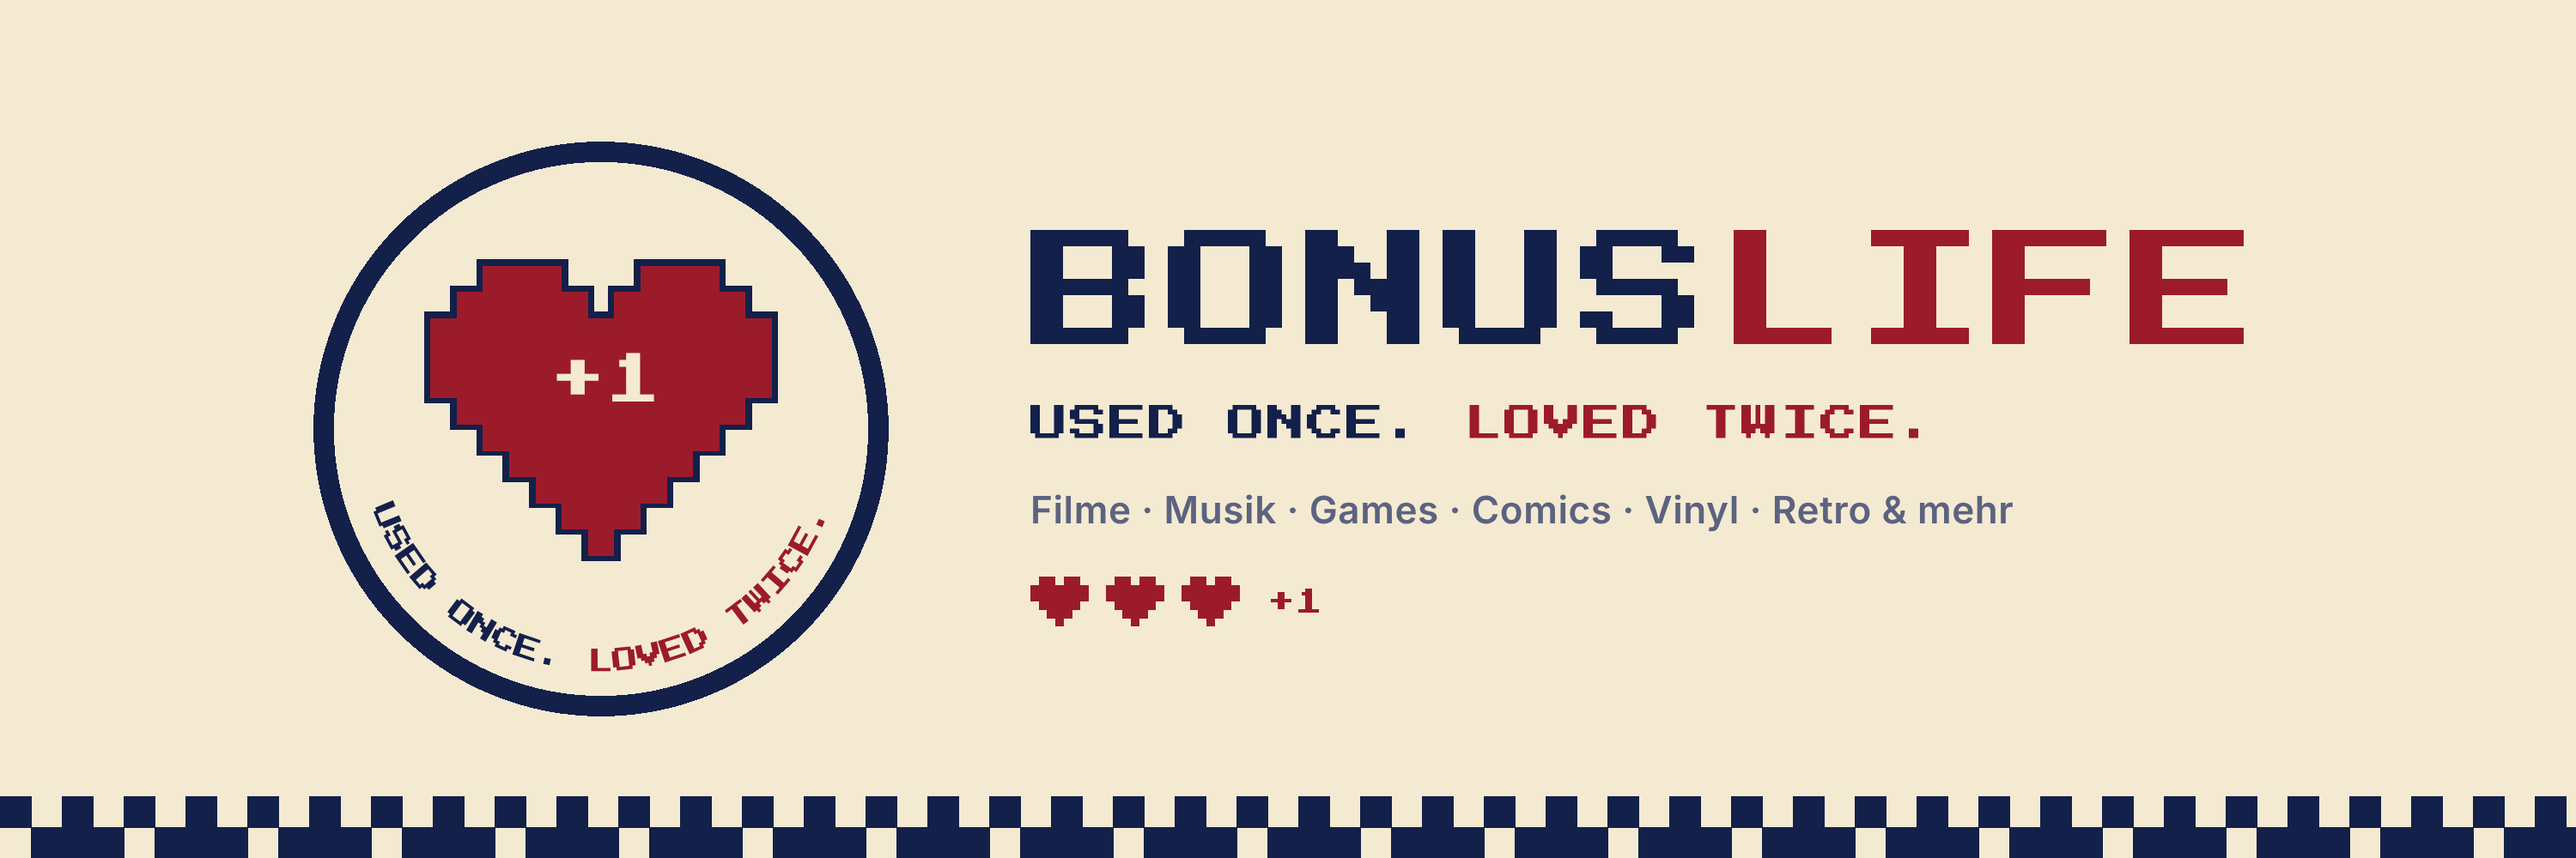
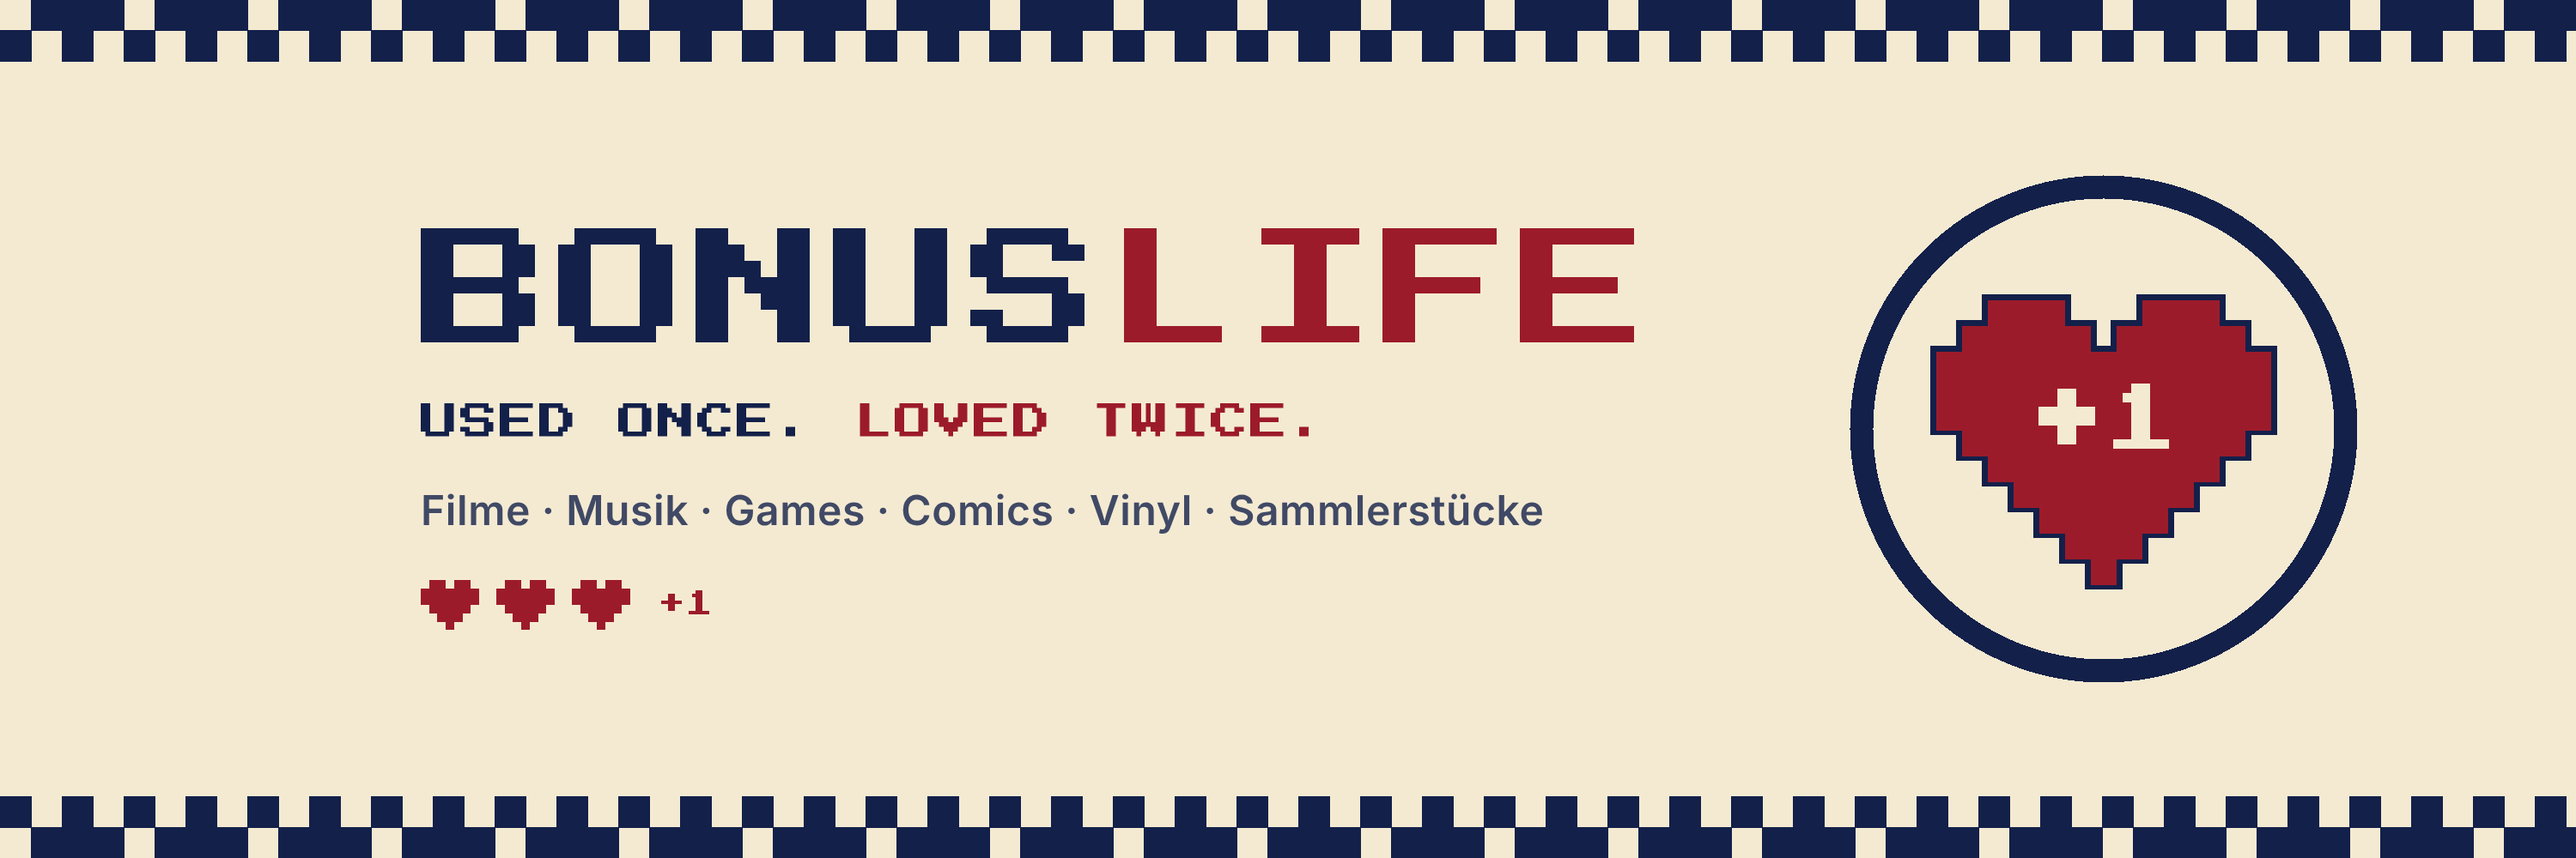
Apply second review round across cover and brand assets
Cover: new front grid (40 mm badge, 70 mm title box), pixel +1 in the
badge, range line and higher QR block on the back, cream-dark spine
write-on field. Brand: ring logo without arc text for the banner, the
wide header and stamps (colour and one-colour navy, PNG + SVG), a
unified range line with stronger contrast, checkerboard edges on the
wide header, and SVG exports of the badge.

Claude-Session: https://claude.ai/code/session_016MhpHubkyT9LhNT91FdgZQ

Changed region(s): [[0.124, 0.155, 0.93, 0.837], [0.0, 0.0, 1.0, 0.093], [0.403, 0.651, 0.527, 0.744]]

diff --git a/brand/assets.html b/brand/assets.html
@@ -21,13 +21,13 @@ svg{display:block}
 
 /* Banner 1280×288 (eBay), 2× gerendert */
 .banner{width:1280px;height:288px;background:var(--cream);display:flex;align-items:center;justify-content:center;gap:56px}
-.banner .badge{width:212px;height:212px}
+.banner .badge{width:190px;height:190px}
 .banner .mid{display:flex;flex-direction:column;align-items:center;gap:18px}
 .wm{font-family:"Press Start 2P",monospace;font-size:58px;letter-spacing:4px;color:var(--navy)}
 .wm span{color:var(--red)}
 .sl{font-family:"Press Start 2P",monospace;font-size:17px;letter-spacing:1px;color:var(--navy)}
 .sl span{color:var(--red)}
-.cat{font:600 17px Inter,sans-serif;color:#5b6380;letter-spacing:.3px}
+.cat{font:600 21px Inter,sans-serif;color:rgba(19,32,74,.8);letter-spacing:.3px}
 .lives{display:flex;gap:10px;align-items:center}
 .lives svg{width:34px}
 .lives b{font-family:"Press Start 2P",monospace;font-weight:400;font-size:16px;color:var(--red);margin-left:6px}
@@ -35,13 +35,15 @@ svg{display:block}
 .banner .dither.top{top:0;bottom:auto;transform:scaleY(-1)}
 
 /* Instagram/Facebook-Titelbild 1500×500 */
-.wide{width:1500px;height:500px;background:var(--cream);display:flex;align-items:center;justify-content:center;gap:80px}
-.wide .badge{width:340px;height:340px}
+.wide{width:1500px;height:500px;background:var(--cream);display:flex;align-items:center;justify-content:center;gap:110px;padding-left:120px}
+.wide .badge{width:300px;height:300px}
 .wide .wm{font-size:76px}
 .wide .sl{font-size:22px}
 .wide .cat{font-size:22px}
 .wide .mid{display:flex;flex-direction:column;align-items:flex-start;gap:26px}
 .wide .dither{position:absolute;left:0;right:0;bottom:0;height:36px}
+.wide .dither.top{top:0;bottom:auto;transform:scaleY(-1)}
+.wide .cat{font-size:24px}
 </style>
 </head>
 <body>
@@ -50,25 +52,28 @@ svg{display:block}
 <div><div class="cap">eBay-Banner 1280×288</div>
   <div class="asset banner" id="banner">
     <svg class="dither top" data-dither="1280"></svg>
-    <div class="badge" data-badge></div>
+    <div class="badge" data-ring></div>
     <div class="mid">
       <div class="wm">BONUS<span>LIFE</span></div>
       <div class="sl">USED ONCE. <span>LOVED TWICE.</span></div>
-      <div class="cat">Filme · Musik · Games · Comics · Vinyl · Retro &amp; mehr – aus zweiter Hand</div>
+      <div class="cat">Filme · Musik · Games · Comics · Vinyl · Sammlerstücke</div>
     </div>
     <div class="lives"><i data-heart></i><i data-heart></i><i data-heart></i><b>+1</b></div>
     <svg class="dither" data-dither="1280"></svg>
   </div>
 </div>
+<div><div class="cap">Logo ohne Bogentext (farbig) und Stempel (einfarbig Navy)</div>
+  <div style="display:flex;gap:24px"><div class="asset" id="ringColor" style="width:800px;height:800px" data-ring></div><div class="asset" id="ringStamp" style="width:800px;height:800px;background:#fff" data-stamp></div></div></div>
 <div><div class="cap">Breites Titelbild 1500×500 (z. B. Facebook, Linktree, Website)</div>
   <div class="asset wide" id="wide">
-    <div class="badge" data-badge></div>
+    <svg class="dither top" data-dither="1500"></svg>
     <div class="mid">
       <div class="wm">BONUS<span>LIFE</span></div>
       <div class="sl">USED ONCE. <span>LOVED TWICE.</span></div>
-      <div class="cat">Filme · Musik · Games · Comics · Vinyl · Retro &amp; mehr</div>
+      <div class="cat">Filme · Musik · Games · Comics · Vinyl · Sammlerstücke</div>
       <div class="lives"><i data-heart></i><i data-heart></i><i data-heart></i><b>+1</b></div>
     </div>
+    <div class="badge" data-ring></div>
     <svg class="dither" data-dither="1500"></svg>
   </div>
 </div>
@@ -106,9 +111,17 @@ function badgeSVG(){
   return `<svg viewBox="0 0 200 200" shape-rendering="crispEdges">
   <circle cx="100" cy="100" r="95" fill="${CREAM}" stroke="${NAVY}" stroke-width="7"/>
   <g fill="${NAVY}">${navy}</g><g fill="${RED}">${red}</g>
-  <text x="101.5" y="93" text-anchor="middle" font-family="'Press Start 2P',monospace" font-size="19" fill="${CREAM}">+1</text>
+  <g fill="${CREAM}">${plusOne(100,84.5,3.24)}</g>
   <defs><path id="arc" d="M 16 100 A 84 84 0 0 0 184 100"/></defs>
   <text font-family="'Press Start 2P',monospace" font-size="8.8" letter-spacing=".2" shape-rendering="auto"><textPath href="#arc" startOffset="50%" text-anchor="middle"><tspan fill="${NAVY}">USED ONCE. </tspan><tspan fill="${RED}">LOVED TWICE.</tspan></textPath></text></svg>`;
+}
+// Ring + Herz ohne Bogentext: für Stempel und kleine Größen. mono = einfarbig
+function ringLogo(mono){
+  const ink=mono||NAVY,heart=mono||RED,{navy,red}=heartRects(10,35,50,2.4);
+  return `<svg viewBox="0 0 200 200" xmlns="http://www.w3.org/2000/svg" shape-rendering="crispEdges">
+  <circle cx="100" cy="100" r="94" fill="${mono?'none':CREAM}" stroke="${ink}" stroke-width="9"/>
+  <g fill="${ink}">${navy}</g><g fill="${heart}">${red}</g>
+  <g fill="${mono?'#ffffff':CREAM}">${plusOne(100,95,3.6)}</g></svg>`;
 }
 function smallHeart(){const g=['.##.##.','#######','#######','.#####.','..###..','...#...'];let r='';
   g.forEach((row,y)=>[...row].forEach((c,x)=>{if(c==='#')r+=`<rect x="${x}" y="${y}" width="1.02" height="1.02"/>`}));
@@ -123,6 +136,8 @@ function render(){
   document.getElementById('profileCream').innerHTML=heartMark(NAVY);
   document.getElementById('profileNavy').innerHTML=heartMark(CREAM);
   document.querySelectorAll('[data-badge]').forEach(e=>e.innerHTML=badgeSVG());
+  document.querySelectorAll('[data-ring]').forEach(e=>e.innerHTML=ringLogo());
+  document.querySelectorAll('[data-stamp]').forEach(e=>e.innerHTML=ringLogo(NAVY));
   document.querySelectorAll('[data-heart]').forEach(e=>e.innerHTML=smallHeart());
   document.querySelectorAll('[data-dither]').forEach(e=>dither(e,+e.dataset.dither));
 }

diff --git a/cover/index.html b/cover/index.html
@@ -55,7 +55,7 @@ h1{font-size:18px;margin-bottom:4px}
 .spine .cap .px{width:min(5mm,calc(var(--spine)*.72))}
 .spine .name{flex:1;display:flex;align-items:center;justify-content:center}
 .spine .name b{writing-mode:vertical-rl;transform:rotate(180deg);font-family:"Press Start 2P",monospace;font-weight:400;font-size:min(2.8mm,calc(var(--spine)*.42));letter-spacing:.3mm;white-space:nowrap}
-.spine .write{width:calc(100% - 1.6mm);height:62mm;background:var(--cream);border-radius:.6mm;margin-bottom:6mm}
+.spine .write{width:calc(100% - 1.6mm);height:62mm;background:var(--cream-d);border-radius:.6mm;margin-bottom:6mm}
 
 /* Schnitt- und Falzmarken (außerhalb des Beschnitts) */
 .marks{position:absolute;left:50%;top:50%;transform:translate(-50%,-50%);height:var(--h);width:calc(var(--panel-w)*2 + var(--spine));pointer-events:none}
@@ -64,11 +64,11 @@ h1{font-size:18px;margin-bottom:4px}
 
 /* Vorderseite */
 .front{align-items:center;text-align:center}
-.badge{width:46mm;height:46mm;margin-top:5mm}
+.badge{width:40mm;height:40mm;margin-top:4mm}
 .badge img,.badge svg{width:100%;height:100%;object-fit:contain;display:block}
-.brand{font-family:"Press Start 2P",monospace;font-size:5.6mm;margin-top:3.5mm;letter-spacing:.4mm}
+.brand{font-family:"Press Start 2P",monospace;font-size:5.4mm;margin-top:4mm;letter-spacing:.4mm}
 .brand span{color:var(--accent)}
-.titlefield{align-self:stretch;margin-top:8mm;height:50mm;border:.5mm solid var(--fg);border-radius:2.5mm;background:var(--field);display:flex;align-items:center;justify-content:center;padding:4mm}
+.titlefield{align-self:stretch;margin-top:6mm;height:70mm;border:.5mm solid var(--fg);border-radius:2.5mm;background:var(--field);display:flex;align-items:center;justify-content:center;padding:4mm}
 .titlefield .t{font-weight:800;font-size:7.5mm;line-height:1.15;word-break:break-word}
 .lives{margin-top:auto;margin-bottom:2mm;display:flex;gap:2mm;align-items:center}
 .lives .px{width:5.5mm}
@@ -82,7 +82,9 @@ h1{font-size:18px;margin-bottom:4px}
 .checks{display:flex;justify-content:space-between;margin-top:5mm;padding:0 1mm}
 .checks span{display:flex;align-items:center;gap:1.6mm;font-size:3.4mm;font-weight:600}
 .checks .px{width:3.2mm}
-.qrs{margin:auto 0;display:flex;gap:6mm;justify-content:center}
+.range{margin-top:4.5mm;font-size:3.4mm;line-height:1.45;padding:0 1mm}
+.range b{color:var(--accent)}
+.qrs{margin:7mm 0 auto;display:flex;gap:6mm;justify-content:center}
 .qrcard{flex:1;display:flex;flex-direction:column;align-items:center;text-align:center;gap:2mm;max-width:52mm}
 .qrcard .k{font-family:"Press Start 2P",monospace;font-size:2.5mm;line-height:1.5;color:var(--accent)}
 .qr{width:28mm;height:28mm;background:#fff;padding:1.6mm;border-radius:1.6mm;border:.5mm solid var(--navy)}
@@ -139,6 +141,7 @@ h1{font-size:18px;margin-bottom:4px}
         <p>Gebraucht, aber nicht verbraucht – bereit für die nächste Runde.</p>
       </div>
       <div class="checks"><span data-px="check">Geprüft</span><span data-px="check">Gereinigt</span><span data-px="check">Bereit für Runde 2</span></div>
+      <div class="range"><b>Nicht nur Discs:</b> Vinyl, Comics, Games, Retro-Schätze &amp; mehr – alles aus zweiter Hand.</div>
       <div class="qrs" id="qrs"></div>
       <div class="bottom">
         <div class="slogan">USED ONCE. <span>LOVED TWICE.</span></div>
@@ -194,10 +197,19 @@ function badgeSVG(){
   return `<svg viewBox="0 0 200 200" xmlns="http://www.w3.org/2000/svg" shape-rendering="crispEdges">
   <circle cx="100" cy="100" r="95" fill="${CREAM}" stroke="${NAVY}" stroke-width="7"/>
   <g fill="${NAVY}">${navy}</g><g fill="${RED}">${red}</g>
-  <text x="101.5" y="93" text-anchor="middle" font-family="'Press Start 2P',monospace" font-size="19" fill="${CREAM}">+1</text>
+  <g fill="${CREAM}">${plusOne(100,84.5,3.24)}</g>
   <defs><path id="arc" d="M 16 100 A 84 84 0 0 0 184 100"/></defs>
   <text font-family="'Press Start 2P',monospace" font-size="8.8" letter-spacing=".2" shape-rendering="auto"><textPath href="#arc" startOffset="50%" text-anchor="middle"><tspan fill="${NAVY}">USED ONCE. </tspan><tspan fill="${RED}">LOVED TWICE.</tspan></textPath></text>
 </svg>`;
+}
+
+// "+1" als Pixel (wie Profilbild), cx/cy = Mittelpunkt, s = Pixelgröße
+function plusOne(cx,cy,s){
+  const one=['..##..','.###..','..##..','..##..','..##..','..##..','######'];
+  const plus=['..##..','..##..','######','######','..##..','..##..'];
+  const ox=cx-7*s,oy=cy-3.5*s;let r='';
+  const put=(g,dx,dy)=>g.forEach((row,y)=>[...row].forEach((c,x)=>{if(c==='#')r+=`<rect x="${ox+(dx+x)*s}" y="${oy+(dy+y)*s}" width="${s+.1}" height="${s+.1}"/>`}));
+  put(plus,0,.5);put(one,8,0);return r;
 }
 
 // Pixel-Verlauf (geordnetes Dithering) als Abschluss der Rückseite
@@ -218,7 +230,7 @@ function renderQRs(){
     box.className='qrs single';
     box.innerHTML=`<div class="qrcard"><div class="qr">${qrSVG(shop)}</div><div class="txt">
       <div class="k">NOCH EIN LEBEN ÜBRIG?</div>
-      <div class="cta">Scannen &amp; weiterstöbern – Filme, Musik, Games, Comics &amp; mehr aus zweiter Hand.</div>${shopLbl}</div></div>`;
+      <div class="cta">Scannen &amp; weiterstöbern – geprüft, gereinigt, mit Extraleben.</div>${shopLbl}</div></div>`;
     return;
   }
   box.className='qrs';
